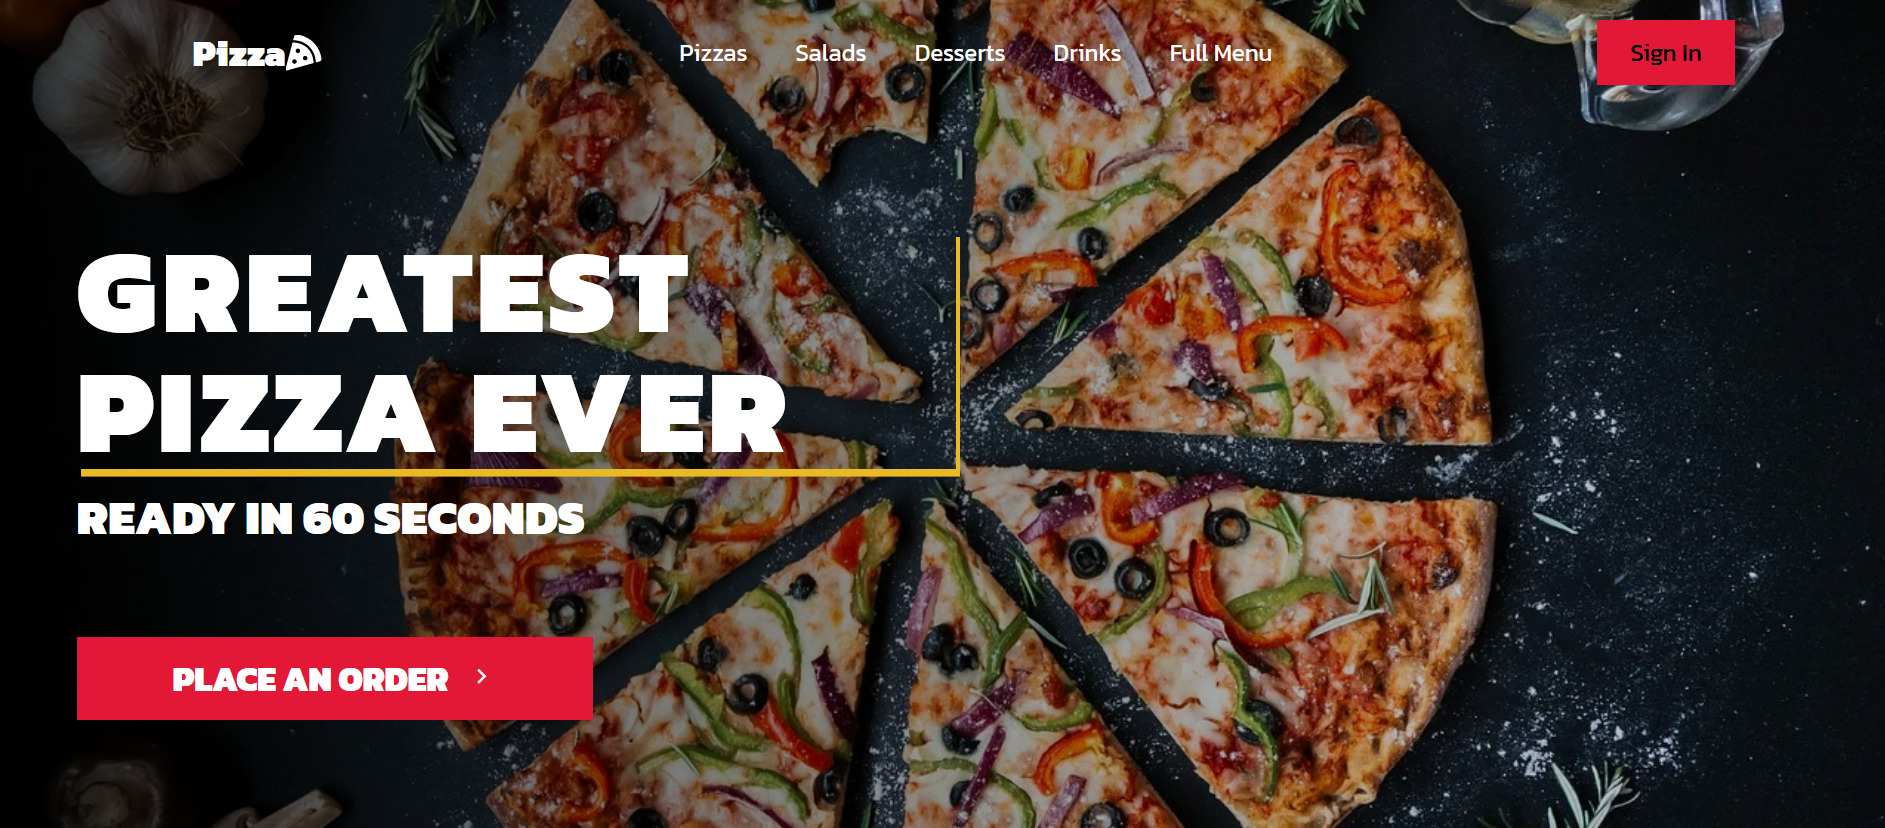
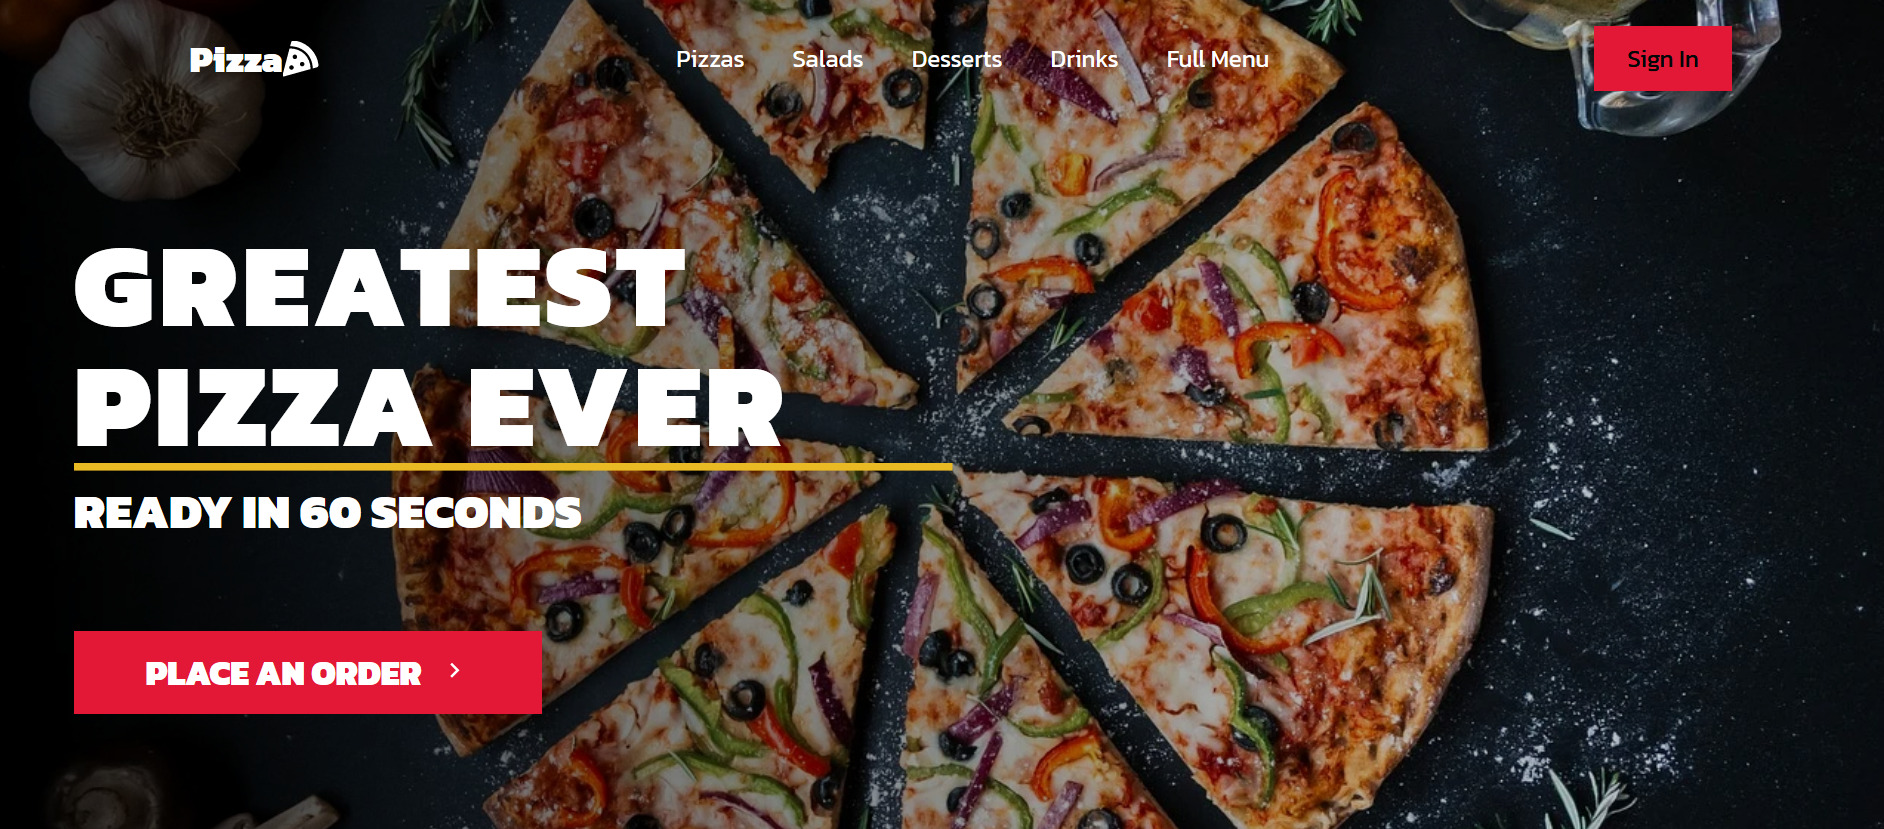
website

diff --git a/src/components/Hero/HeroElements.js b/src/components/Hero/HeroElements.js
@@ -40,9 +40,9 @@ export const HeroItems = styled.div`
 export const HeroH1 = styled.h1`
     font-size: clamp(2.5rem, 10vw, 5rem);
     margin-bottom: 1rem;
-    margin-top: 4rem;
-    box-shadow: 3px 5px #e9ba23;
-    letter-spacing: 3px;
+    margin-top: 3rem;
+    box-shadow: 0 5px #e9ba23;
+    letter-spacing:3px;
 `;
 
 export const HeroP = styled.p`
@@ -59,7 +59,7 @@ export const HeroBtnWrapper = styled.div`
 
 export const HeroBtn = styled(LinkR)`
     font-size: 1.4rem;
-    padding: 1rem 4rem;
+    padding: 1rem 3rem;
     border: none;
     background: #e31837;
     color: #fff;

diff --git a/src/components/Products/ProductsElements.js b/src/components/Products/ProductsElements.js
@@ -59,11 +59,12 @@ export const ProductPrice = styled.p`
 
 export const ProductButton = styled.button`
   font-size: 1rem;
-  padding: 1rem 4rem;
+  padding: 1rem 2rem;
   border: none;
   background: #e31837;
   color: #fff;
   transition: 0.2 ease-out;
+
   &:hover {
     background: #ffc500;
     transition: 0.2s ease-out;
